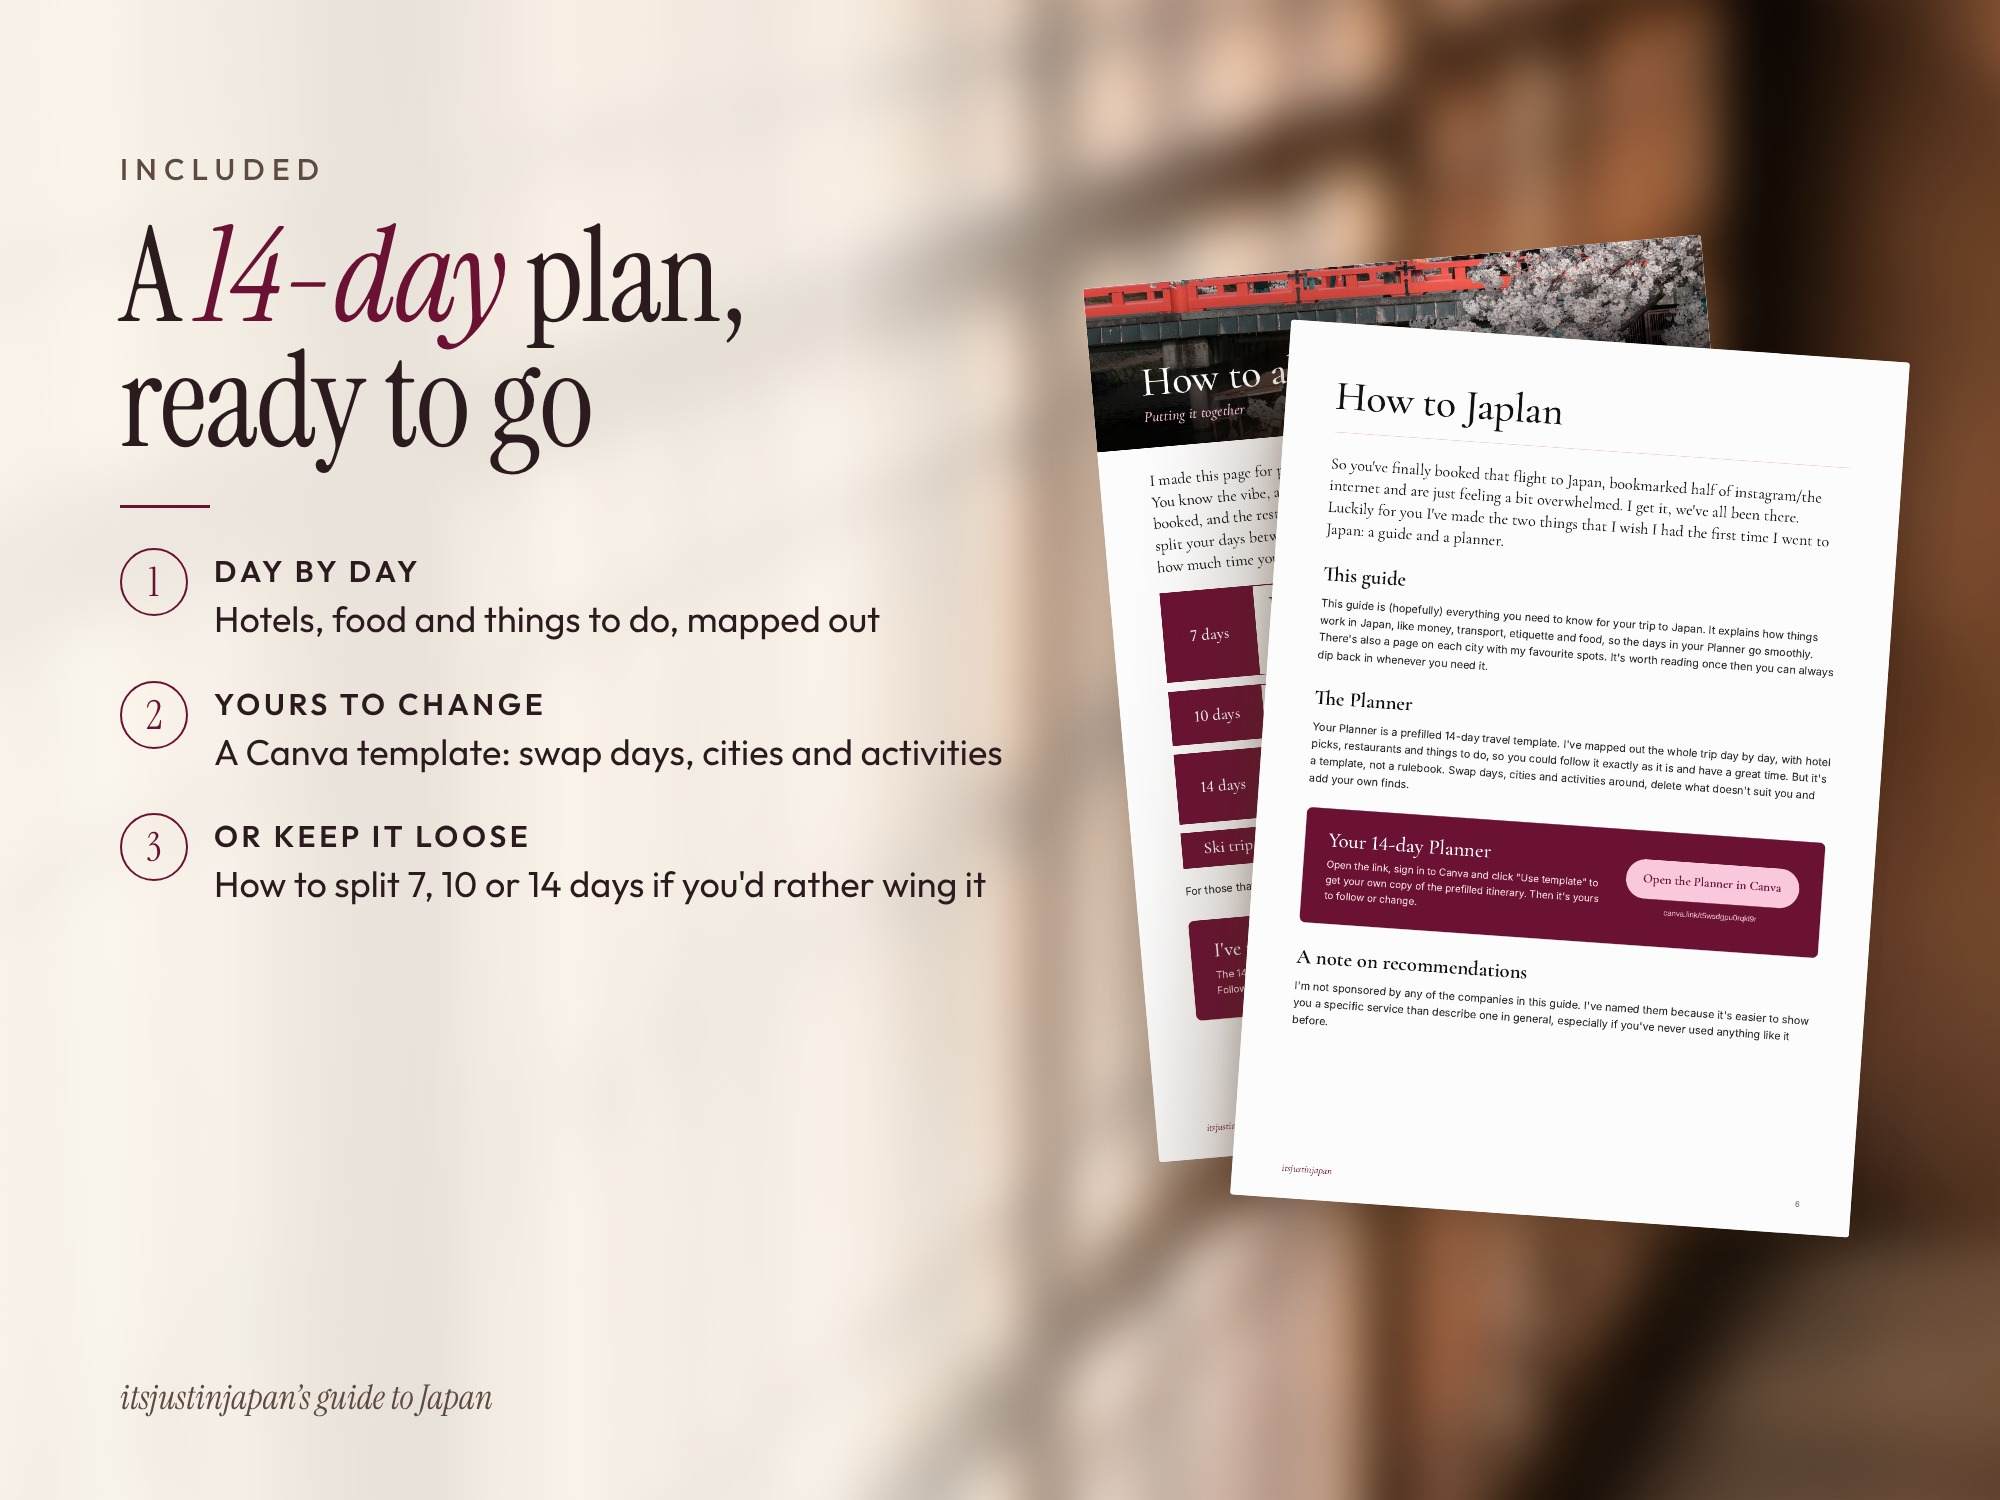
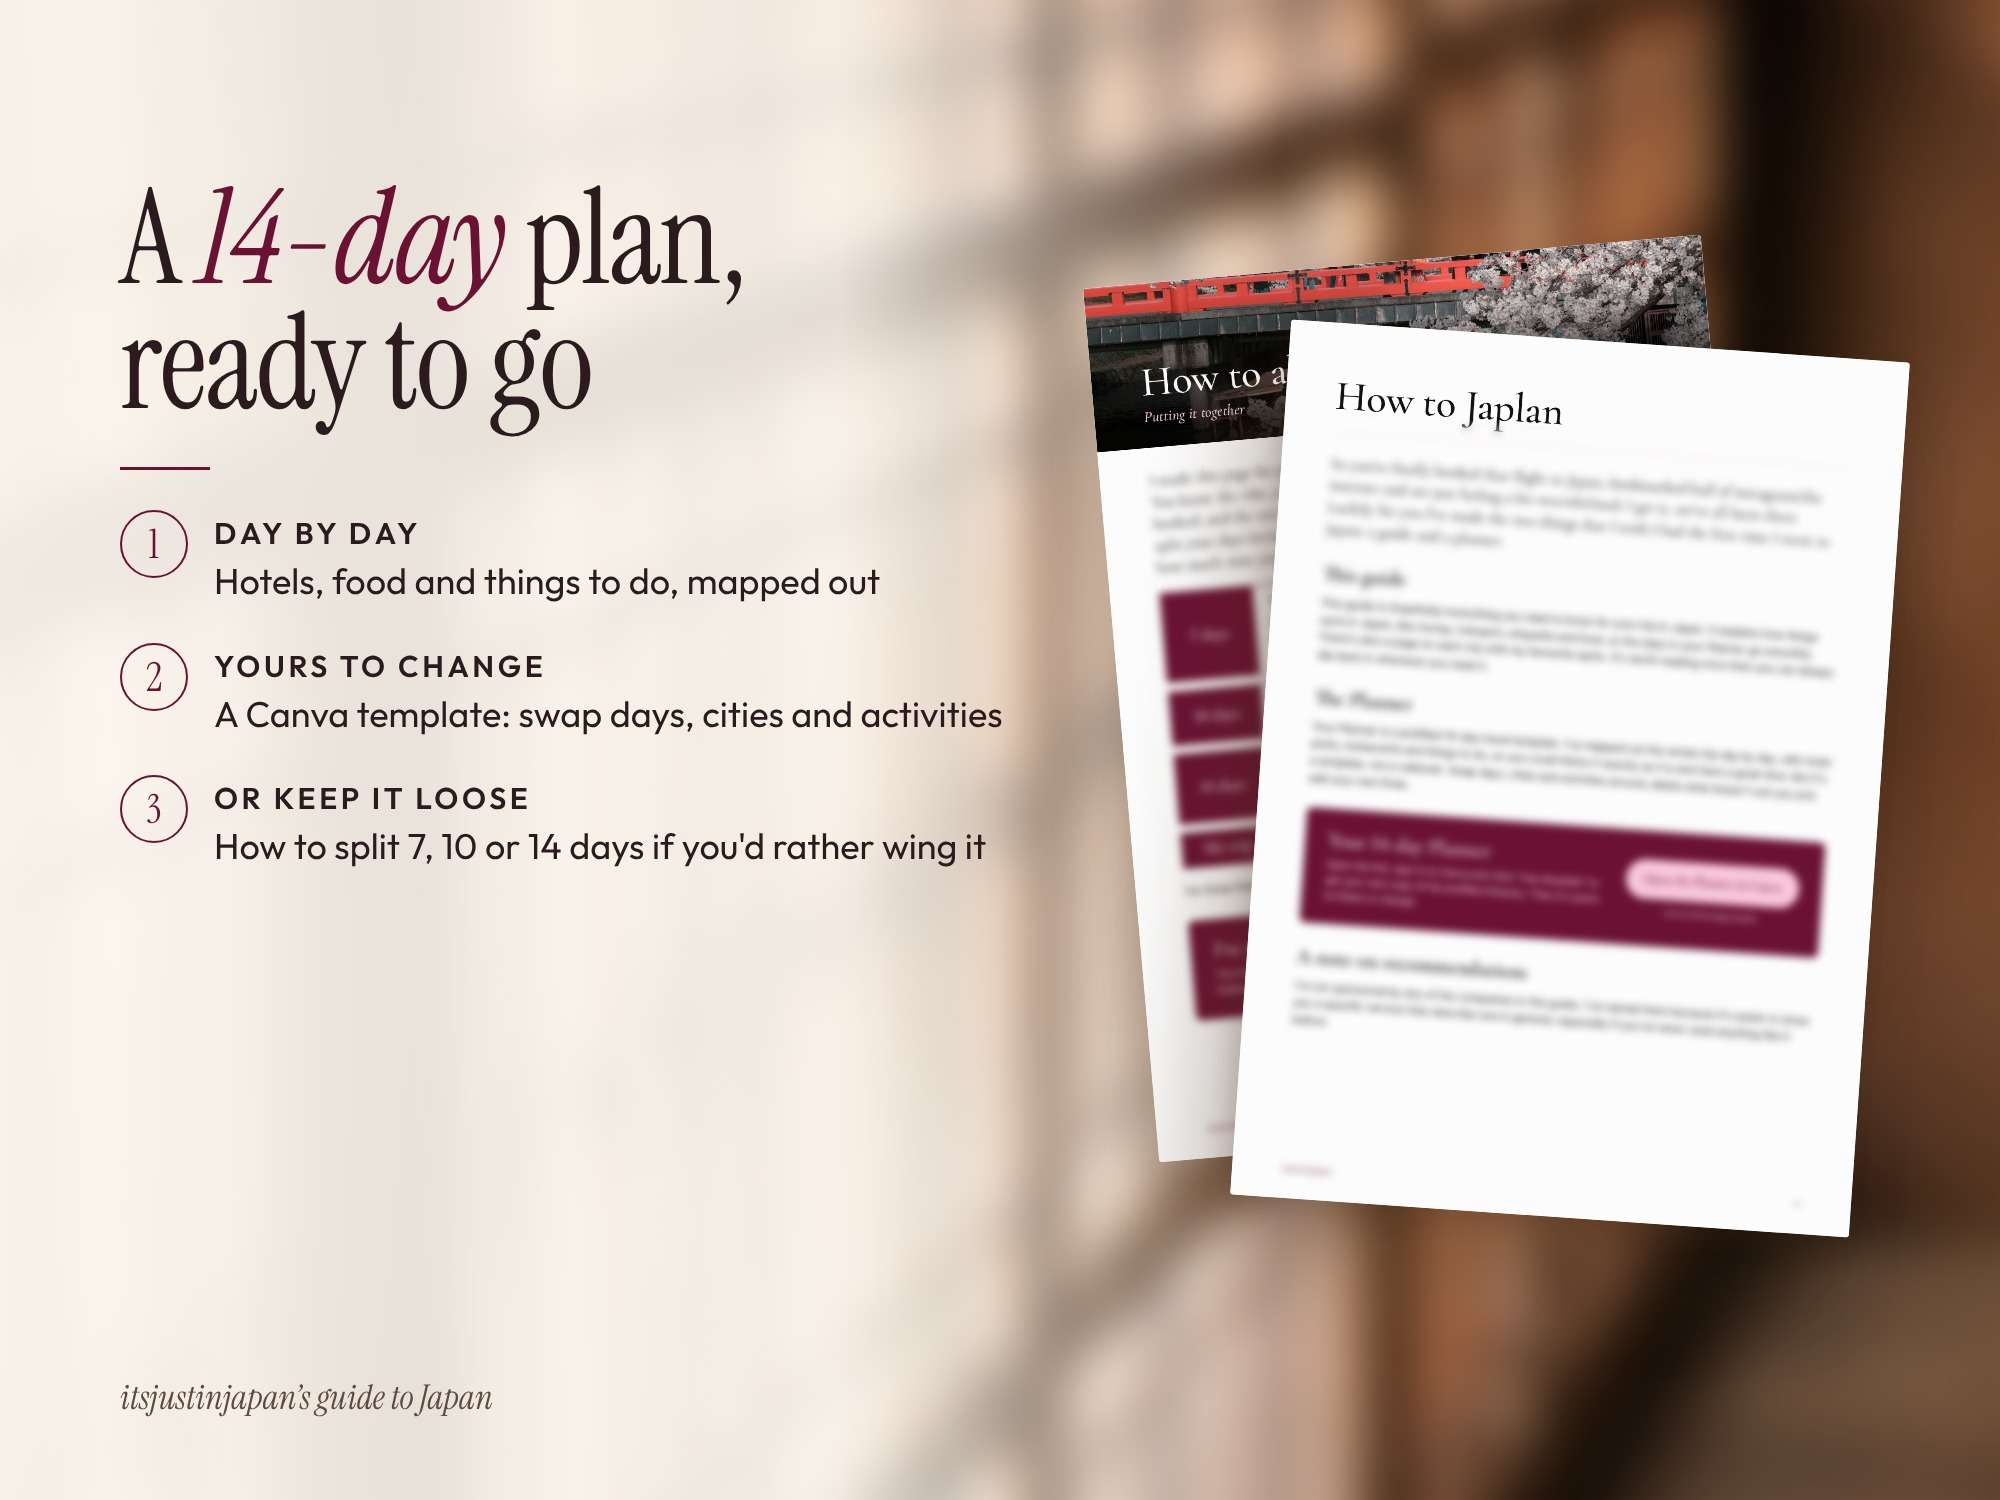
Listing images: blurred page body text, no eyebrows
Claude-Session: https://claude.ai/code/session_01Ki5uwK1E6UNvwVLzA4yviP

Changed region(s): [[0.558, 0.3067, 0.93, 0.7053], [0.062, 0.3373, 0.496, 0.6133], [0.062, 0.092, 0.372, 0.3067]]

diff --git a/listing-images/src/hero-shoji.html b/listing-images/src/hero-shoji.html
@@ -25,12 +25,12 @@ ul{list-style:none;padding:0;font-size:40px;line-height:1.75;color:#2b1a1e;font-
 </style></head><body>
 <div class="bg"></div><div class="warm"></div>
 <div class="head">
- <div class="kicker">itsjustinjapan · 2027 edition</div>
+ 
  <h1>The <em>complete</em><br>guide to Japan</h1>
  <div class="line"></div>
  <ul><li>102-page guide from my own trips</li><li>14-day planner included</li><li>Instant download · phone or print</li></ul>
 </div>
-<div class="under"><img src="p82-082.png"></div>
+<div class="under"><img src="p82-082-b.png"></div>
 <div class="book"><img src="p1-001.png"></div>
 
 </body></html>

diff --git a/listing-images/src/feat.py b/listing-images/src/feat.py
@@ -4,22 +4,22 @@ F = {
    pts=[("Day by day","Hotels, food and things to do, mapped out"),
         ("Yours to change","A Canva template: swap days, cities and activities"),
         ("Or keep it loose","How to split 7, 10 or 14 days if you'd rather wing it")],
-   pages=["p6-006.png","p96-096.png"]),
+   pages=["p6-006-b.png","p96-096-b.png"]),
  "03-tokyo": dict(kicker="Where to go", title="Every<br><em>neighbourhood</em><br>explained",
    pts=[("Tokyo, area by area","What each area is like and what to do"),
         ("Six more places","Hakone, Kyoto, Osaka, Nara and more"),
         ("My favourite spots","The places I'd send a friend, from my own trips")],
-   pages=["p76-076.png","p77-077.png"]),
+   pages=["p76-076-b.png","p77-077-b.png"]),
  "04-book": dict(kicker="Before you go", title="What to <em>book</em><br>and when",
    pts=[("Sell-out list","Nintendo Museum, PokéPark, Ghibli and more"),
         ("When it opens","Release dates and how hard each one is to get"),
         ("Visas, apps, SIMs","Everything to sort before you fly")],
-   pages=["p19-019.png","p20-020.png"]),
+   pages=["p19-019-b.png","p20-020-b.png"]),
  "05-mistakes": dict(kicker="Practical stuff", title="Skip the <em>mistakes</em><br>I made",
    pts=[("Top 9 mistakes","From where not to stay to shops that open late"),
         ("Etiquette, simply","Onsen, ryokan, trains and toilets"),
         ("Eat like a local","Ticket machines, izakaya, konbini and phrases")],
-   pages=["p95-095.png","p68-068.png"]),
+   pages=["p95-095-b.png","p68-068-b.png"]),
 }
 CSS = open("feat.css").read()
 for name, f in F.items():
@@ -27,7 +27,7 @@ for name, f in F.items():
     a, b = f["pages"]
     html = f'''<!doctype html><html><head><meta charset="utf-8"><style>{CSS}</style></head><body>
 <div class="bg"></div><div class="warm"></div>
-<div class="head"><div class="kicker">{f["kicker"]}</div><h1>{f["title"]}</h1><div class="line"></div><ol>{pts}</ol></div>
+<div class="head"><h1>{f["title"]}</h1><div class="line"></div><ol>{pts}</ol></div>
 <div class="pg back"><img src="{b}"></div><div class="pg front"><img src="{a}"></div>
 <div class="brand">itsjustinjapan’s guide to Japan</div></body></html>'''
     open(f"{name}.html","w").write(html)

diff --git a/listing-images/README.md b/listing-images/README.md
@@ -14,3 +14,5 @@ Done: 01 hero · 02 planner · 03 neighbourhoods · 04 what to book · 05 mistak
 05 the Canva planner · 06 tips you only learn the hard way · 07 proof (5,000+ travellers, reviews) · 08 what you get.
 
 Background options (blurred Japanese photos, Unsplash): shoji = De An Sun, tatami = Yosuke Ota, kyoto = Fabrizio Chiagano. See options/.
+
+Previews blur page body text below each page heading (src/*-b.png, Gaussian 7px) so the listing shows layout, not content. No eyebrow labels above titles.
